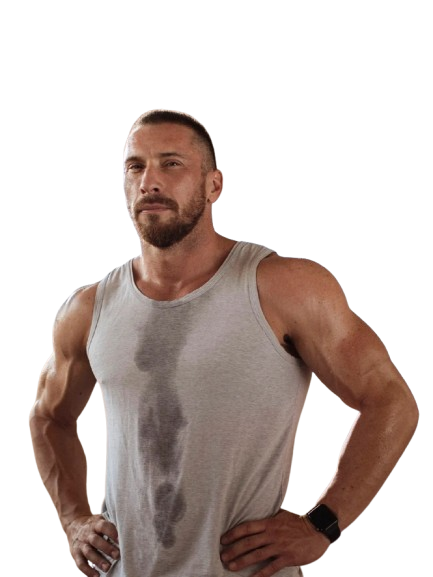
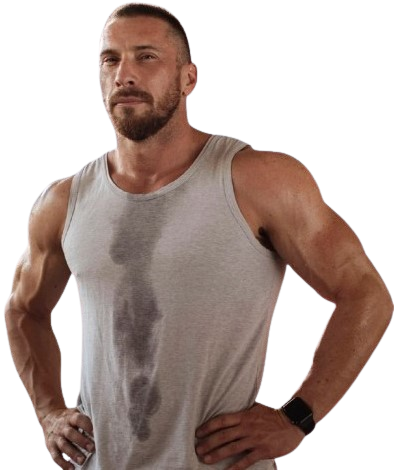
Mejora el componente Cambio físico

diff --git a/soldado-gym/client/src/Components/FisicoComponent.jsx b/soldado-gym/client/src/Components/FisicoComponent.jsx
@@ -1,58 +1,55 @@
 import React, { useState } from "react";
-
-// Importamos las imágenes locales
-import Antes from '../assets/img/Antes.webp';
-import Despues from '../assets/img/Despues.webp';
+import FitnessCenterIcon from '@mui/icons-material/FitnessCenter';
+import RunCircleIcon from '@mui/icons-material/RunCircle';
+import Antes from '../assets/img/Antes.webp'; 
+import Despues from '../assets/img/Despues.webp'; 
+import './css/FisicoComponent.css';
 
 export const FisicoComponent = () => {
-  // Estado para manejar la imagen
-  const [image, setImage] = useState(Antes);
+    const [mostrarAntes, setMostrarAntes] = useState(true);
 
-  // Función para cambiar la imagen
-  const handleImageChange = () => {
-    const newImage = image === Antes ? Despues : Antes;
-    setImage(newImage);
-  };
+    const toggleImagen = () => {
+        setMostrarAntes(!mostrarAntes);
+    };
 
-  // Función para manejar el mouse enter (hover)
-  const handleMouseEnter = () => {
-    console.log("Mouse entered");
-  };
+    return (
+        <div className="resultados-container">
+            <div className="texto">
+                <h1 className="text-3xl font-bold uppercase text-center text-color bg-gray-120">Resultados</h1>
+                <p>
+                    Nuestro objetivo es mejorar la salud y el estado físico de nuestros clientes
+                </p>
+            </div>
+            <div className="icono-superior-derecha">
+                    <RunCircleIcon style={{ fontSize: '2.5rem', color: '#e5e51a' }} />
+                </div>
+            <div className="tarjeta">
+                
 
-  // Función para manejar el mouse leave (cuando el mouse sale)
-  const handleMouseLeave = () => {
-    console.log("Mouse left");
-  };
-
-  return (
-    <div className="flex justify-center items-center h-screen bg-gray-100">
-      <button
-        className="relative border-2 border-gray-300 w-72 h-112 cursor-pointer transition-all duration-300 ease-in-out text-center bg-white rounded-lg shadow-md hover:transform hover:scale-105 hover:shadow-lg"
-        onClick={handleImageChange}
-        onMouseEnter={handleMouseEnter}
-        onMouseLeave={handleMouseLeave}
-        aria-label="Cambiar imagen del cambio físico"
-      >        
-        <div className="flex justify-center items-center h-5/6">
-            
-          <img
-            src={image}
-            alt="Cambio físico"
-            className="w-full h-full object-cover rounded-t-lg"
-          />
+                
+                <img 
+                    src={mostrarAntes ? Antes : Despues} 
+                    alt={mostrarAntes ? "Antes" : "Después"} 
+                />
+                
+                
+                <div className="nombre-icono">
+                    <h3>David Fuentes</h3>
+                    <FitnessCenterIcon style={{ fontSize: '2rem', color: '#e5e51a' }} />
+                </div>
+                
+                <button className="boton" onClick={toggleImagen}>Ver Cambio</button> 
+            </div>
         </div>
-        <div className="p-4 pb-12"> {/* Añadimos padding-bottom para separar el botón */}
-          <h2 className="text-lg font-semibold">David Fuentes</h2>
-          <p className="text-gray-600 text-sm">
-            Ver el cambio físico de David. Haz clic para ver el progreso.
-          </p>
-        </div>
-        <div className="absolute bottom-2 left-1/2 transform -translate-x-1/2 bg-black bg-opacity-60 text-white px-4 py-2 rounded-full text-xs font-bold uppercase transition duration-300 ease-in-out hover:bg-opacity-80 hover:scale-110">
-          <span>Ver cambio</span>
-        </div>
-      </button>
-    </div>
-  );
+    );
 };
 
-export default FisicoComponent;
+
+
+
+
+
+
+
+
+

diff --git a/soldado-gym/client/src/Components/css/FisicoComponent.css b/soldado-gym/client/src/Components/css/FisicoComponent.css
@@ -1,0 +1,82 @@
+.resultados-container {
+  display: flex;
+  align-items: center;
+  justify-content: center;
+  padding: 2rem;
+  gap: 2rem;
+  position: relative;
+}
+
+.texto {
+  max-width: 500px;
+}
+
+.tarjeta {
+  background: #fff;
+  border-radius: 10px;
+  box-shadow: 0px 4px 6px rgba(0, 0, 0, 0.1);
+  overflow: hidden;
+  max-width: 350px;
+  text-align: center;
+  padding: 1rem;
+  position: relative; 
+}
+
+.tarjeta img {
+  width: 100%;
+  height: auto;
+}
+
+.boton {
+  margin-top: 1rem;
+  padding: 0.5rem 1rem;
+  background-color: black; 
+  color: #fff; 
+  border: none;
+  border-radius: 5px;
+  cursor: pointer;
+}
+
+
+.icono-superior-derecha {
+  position: absolute;
+  top: 15px; 
+  right: 360px; 
+  background-color: white;
+  border-radius: 50%;
+  padding: 5px;
+  box-shadow: 0px 2px 4px rgba(0, 0, 0, 0.1);
+  color: #e5e51a;
+  z-index: 1000; 
+}
+
+@media (max-width: 500px) {
+.icono-superior-derecha {
+  position: absolute;
+  top: 118px; 
+  right: 30px; 
+}  
+}
+
+.nombre-icono {
+  display: flex;
+  justify-content: center; 
+  align-items: center; 
+  gap: 0.5rem; 
+}
+
+.icono-lateral {
+  color: #e5e51a; 
+  font-size: 1.5rem; 
+}
+
+
+@media (max-width: 768px) {
+  .resultados-container {
+    flex-direction: column;
+  }
+}
+
+
+
+

diff --git a/soldado-gym/client/src/Pages/LandingPage/LandingPage.jsx b/soldado-gym/client/src/Pages/LandingPage/LandingPage.jsx
@@ -208,7 +208,6 @@ export const LandingPage = () => {
         </div>
       </section>
       <div className="separator" />
-      <h1 className="text-3xl font-bold uppercase text-center text-color bg-gray-100">Resultados</h1>
       <FisicoComponent/>
       <section
         ref={sectionRef4}
